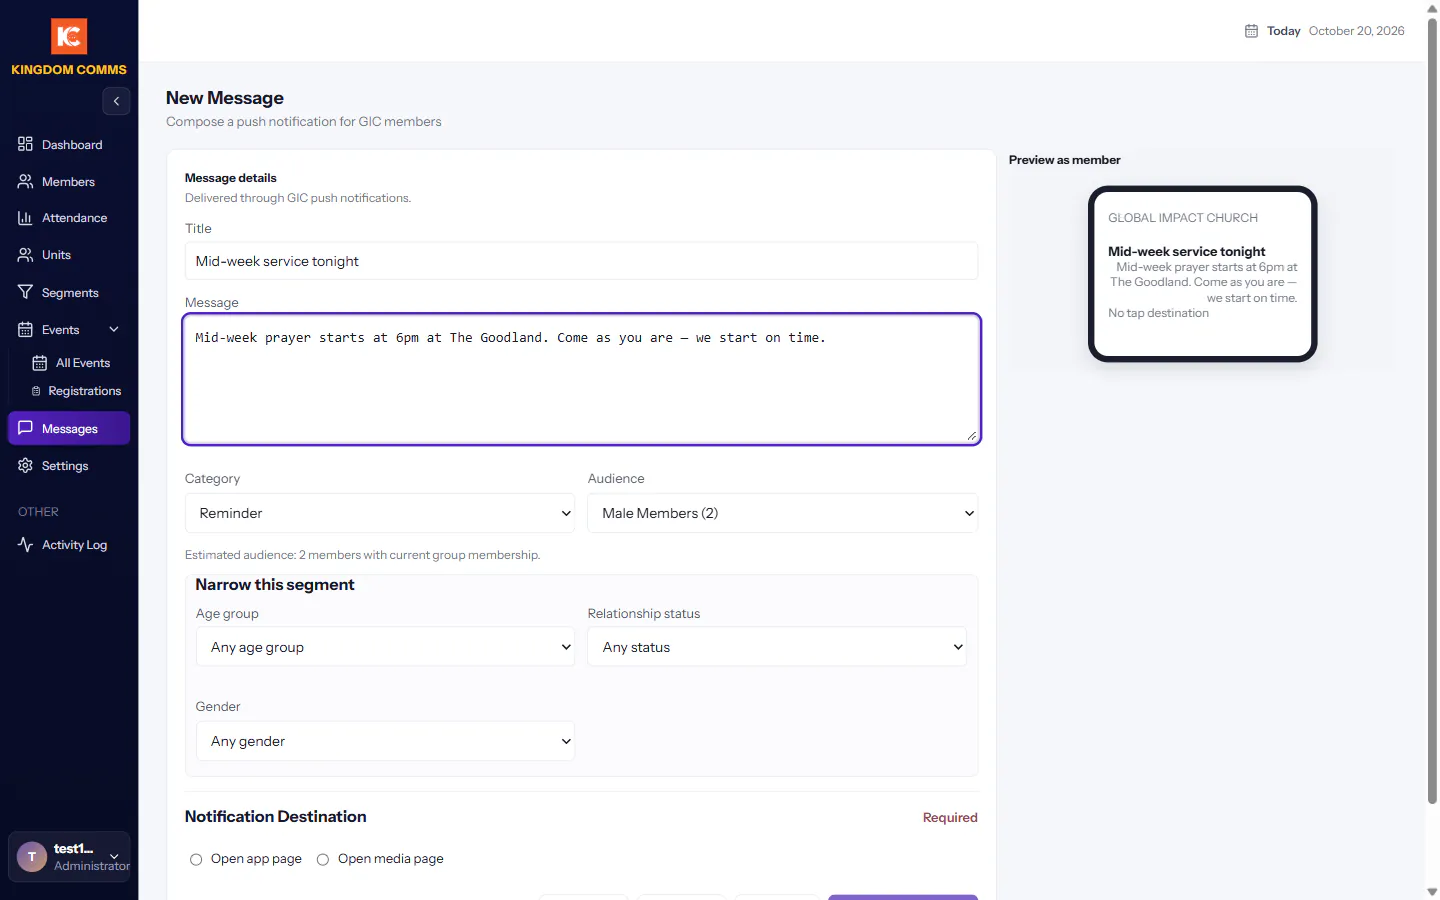
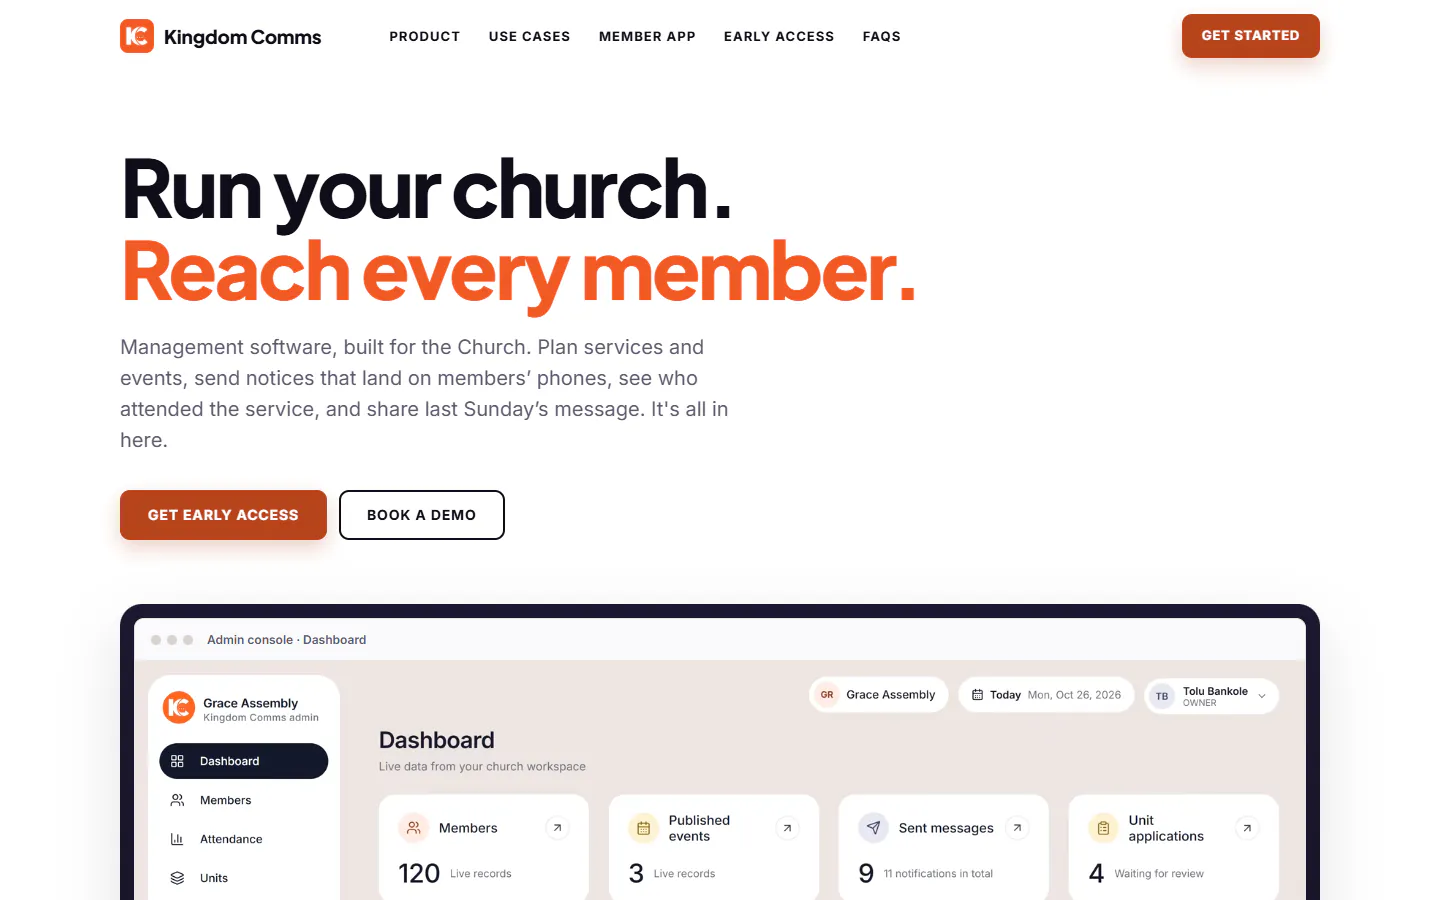
Lead the Kingdom Comms case study with its landing page
The hero, full-page and mobile shots are now the public landing page,
and the Live site link points to it. The admin composer, units view and
member app move into the gallery, and the theme follows the landing
page's orange brand.

diff --git a/src/data/projects.ts b/src/data/projects.ts
@@ -89,35 +89,56 @@ export const projects: Project[] = [
       'Firebase Cloud Messaging',
       'Cloudflare R2',
     ],
-    liveUrl: 'https://gic-admin-static.onrender.com/',
+    liveUrl: 'https://kingdom-comms-landing.onrender.com/',
     summary:
       'A church management platform for sharing information with members without SMS costs, planning events and managing church population.',
     note: 'Church updates, sent straight to members’ phones.',
     stamp: 'In production',
     standfirst:
       'Churches do not have a communications problem. They have a maths problem — and the fix was to stop sending SMS at all.',
-    theme: { bg: '#F3F4F8', fg: '#171A2B', accent: '#4B20B5' },
+    theme: { bg: '#F7F5F4', fg: '#0F0D1A', accent: '#F15A25' },
     images: {
       hero: {
         src: '/projects/gic/hero.webp',
         width: 1440,
         height: 900,
-        alt: 'Kingdom Comms message composer: a reminder titled “Mid-week service tonight”, audience set to the Male Members segment, with a live preview of the push notification a member would receive',
+        alt: 'Kingdom Comms landing page: “Run your church. Reach every member.” above a preview of the admin console dashboard',
       },
       full: {
         src: '/projects/gic/full.webp',
-        width: 1200,
-        height: 881,
-        alt: 'Kingdom Comms Units: fourteen church units and fellowships — Protocol, Security, Pastors, Media Ministry, Choir, Youth Fellowship — each with its description, member count and status',
+        width: 1076,
+        height: 11000,
+        alt: 'Full-page view of the Kingdom Comms landing page: product tour, use cases, the member app, setup steps, early access and FAQs',
       },
       mobile: {
         src: '/projects/gic/mobile.webp',
-        width: 750,
-        height: 1966,
-        alt: 'The GIC member app on a phone: the latest Mixlr sermon recording with a player, the next service at The Goodland, upcoming events and a profile-completion prompt',
+        width: 780,
+        height: 1688,
+        alt: 'The Kingdom Comms landing page on a phone, with the early-access and book-a-demo calls to action',
       },
     },
     gallery: [
+      {
+        src: '/projects/gic/admin-composer.webp',
+        width: 1440,
+        height: 900,
+        alt: 'Kingdom Comms message composer: a reminder titled “Mid-week service tonight”, audience set to the Male Members segment, with a live preview of the push notification a member would receive',
+        caption: 'Message composer — pick the audience, preview the notification',
+      },
+      {
+        src: '/projects/gic/member-home.webp',
+        width: 750,
+        height: 1966,
+        alt: 'The GIC member app on a phone: the latest Mixlr sermon recording with a player, the next service at The Goodland, upcoming events and a profile-completion prompt',
+        caption: 'Member app — this week’s sermon, the next service, upcoming events',
+      },
+      {
+        src: '/projects/gic/admin-units.webp',
+        width: 1200,
+        height: 881,
+        alt: 'Kingdom Comms Units: fourteen church units and fellowships — Protocol, Security, Pastors, Media Ministry, Choir, Youth Fellowship — each with its description, member count and status',
+        caption: 'Units — fourteen units and fellowships, with members and leaders',
+      },
       {
         src: '/projects/gic/admin-segments.webp',
         width: 1200,
@@ -154,10 +175,11 @@ export const projects: Project[] = [
       'A targeting engine — eight filters, automatic rule-based segments and hand-picked audiences',
       'An event manager with registration forms, capacity limits, waitlists and per-branch bus logistics',
       'A written security audit with a prioritised fix list, and the fixes themselves',
+      'A public landing page with an early-access waitlist, demo booking and WhatsApp contact',
     ],
     tech: [
       { label: 'Backend', value: 'Hono on Node · PostgreSQL · Drizzle ORM' },
-      { label: 'Deploy', value: 'Three services on Render + managed Postgres' },
+      { label: 'Deploy', value: 'Four services on Render + managed Postgres' },
       { label: 'Delivery', value: 'Firebase Cloud Messaging · media on Cloudflare R2' },
       { label: 'Data model', value: 'Tenant-scoped: members, ministries, cells, segments, events' },
       { label: 'Member app', value: 'React PWA · service worker · live Mixlr feed' },
@@ -178,7 +200,7 @@ export const projects: Project[] = [
       'Tenant-scoped Postgres with 26 Drizzle migrations, signed JWT sessions, Firebase custom claims for admin roles, device-based member sign-in and phone-based account recovery.',
     ],
     facts: [
-      { label: 'Surfaces', value: 'Member PWA · Admin panel · API' },
+      { label: 'Surfaces', value: 'Landing page · Member PWA · Admin panel · API' },
       { label: 'Targeting', value: '8 filters · automatic + manual segments' },
       { label: 'Branches served', value: '5 — Lagos (×4) & Abuja' },
       { label: 'Units & fellowships', value: '14 — with member counts and leaders' },

diff --git a/README.md b/README.md
@@ -37,7 +37,7 @@ Everything on the page is editable from `src/data/*` — no component edits need
 
 | # | Project | What it is | Live |
 |---|---------|------------|------|
-| 01 | Kingdom Comms | Church communications platform for Global Impact Church — member PWA, admin panel, targeting engine | [gic-admin-static.onrender.com](https://gic-admin-static.onrender.com/) |
+| 01 | Kingdom Comms | Church communications platform for Global Impact Church — member PWA, admin panel, targeting engine | [kingdom-comms-landing.onrender.com](https://kingdom-comms-landing.onrender.com/) |
 | 02 | Zanori Spaces | Interior & exterior design gallery, custom domain | [zanorispaces.com](https://zanorispaces.com/) |
 | 03 | Apreeltree | Premium Nigerian food bulk export, B2B catalogue | [apreeltree.onrender.com](https://apreeltree.onrender.com/) |
 | 04 | Fitables Beauty Bar | Luxury spa booking across three Lagos locations | [fitables.onrender.com](https://fitables.onrender.com/) |
